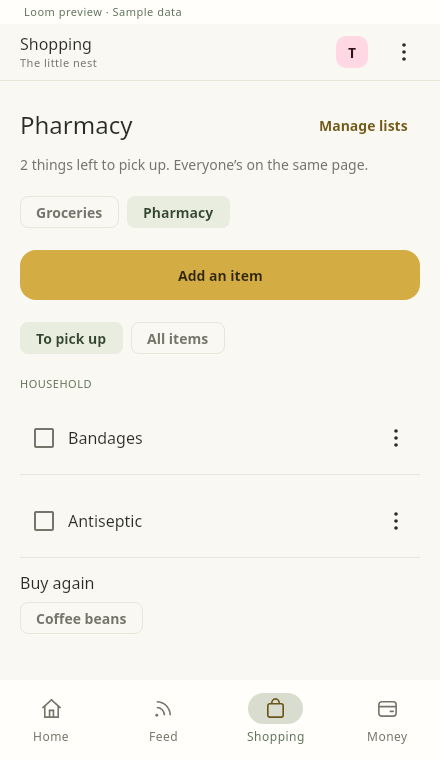
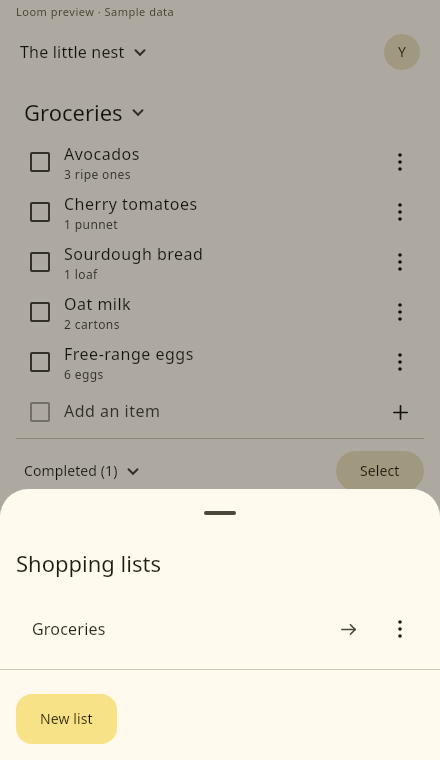
Give shopping list actions more divider spacing

diff --git a/shared/entrypoint/src/jvmTest/kotlin/com/eyther/lumbridge/app/GroupManagementUiTest.kt b/shared/entrypoint/src/jvmTest/kotlin/com/eyther/lumbridge/app/GroupManagementUiTest.kt
@@ -1,9 +1,11 @@
 package com.eyther.lumbridge.app
 
 import androidx.compose.ui.geometry.Size
+import androidx.compose.ui.graphics.asSkiaBitmap
 import androidx.compose.ui.test.ComposeUiTest
 import androidx.compose.ui.test.ExperimentalTestApi
 import androidx.compose.ui.test.assertIsDisplayed
+import androidx.compose.ui.test.captureToImage
 import androidx.compose.ui.test.hasAnyAncestor
 import androidx.compose.ui.test.hasTestTag
 import androidx.compose.ui.test.hasText
@@ -17,7 +19,10 @@ import androidx.compose.ui.test.performTextInput
 import androidx.compose.ui.test.runSkikoComposeUiTest
 import com.eyther.lumbridge.app.demo.LoomDemoApp
 import com.eyther.lumbridge.app.testutil.awaitLoadedDestination
+import java.io.File
 import kotlin.test.Test
+import org.jetbrains.skia.EncodedImageFormat
+import org.jetbrains.skia.Image
 
 @OptIn(ExperimentalTestApi::class)
 class GroupManagementUiTest {
@@ -28,6 +33,17 @@ class GroupManagementUiTest {
             onNodeWithTag("navigation_shopping").performClick()
             awaitLoadedDestination(tag = "shopping_content")
             onNodeWithTag("manage_lists").performClick()
+            onNodeWithText("New list").assertIsDisplayed()
+            onNodeWithText("Cancel").assertDoesNotExist()
+            onNodeWithText("Done").assertDoesNotExist()
+            waitForIdle()
+            val screenshot = Image.makeFromBitmap(captureToImage().asSkiaBitmap())
+            File(
+                    System.getProperty("loom.screenshots.dir", "build/screenshots"),
+                    "shopping-lists-light.png",
+                )
+                .apply { parentFile.mkdirs() }
+                .writeBytes(checkNotNull(screenshot.encodeToData(EncodedImageFormat.PNG)).bytes)
             onNodeWithTag("list_actions_Groceries").performClick()
             onNodeWithText("Delete list").performClick()
             onNodeWithTag("confirm_delete_list").performClick()

diff --git a/shared/features/shopping/src/commonMain/kotlin/com/eyther/lumbridge/features/shopping/presentation/components/bottomsheet/ShoppingListsBottomSheet.kt b/shared/features/shopping/src/commonMain/kotlin/com/eyther/lumbridge/features/shopping/presentation/components/bottomsheet/ShoppingListsBottomSheet.kt
@@ -2,7 +2,7 @@ package com.eyther.lumbridge.features.shopping.presentation.components.bottomshe
 
 import androidx.compose.foundation.layout.Row
 import androidx.compose.foundation.layout.fillMaxWidth
-import androidx.compose.foundation.layout.size
+import androidx.compose.foundation.layout.padding
 import androidx.compose.runtime.Composable
 import androidx.compose.ui.Alignment
 import androidx.compose.ui.Modifier
@@ -14,6 +14,7 @@ import com.eyther.lumbridge.core.presentation.components.bottomsheet.FormBottomS
 import com.eyther.lumbridge.core.presentation.components.menu.ActionMenu
 import com.eyther.lumbridge.core.presentation.components.menu.model.ActionMenuItem
 import com.eyther.lumbridge.core.presentation.resources.TextResource
+import com.eyther.lumbridge.core.presentation.theme.LoomSpacing
 import com.eyther.lumbridge.features.shopping.domain.model.ShoppingListDomain
 import com.eyther.lumbridge.features.shopping.generated.resources.Res
 import com.eyther.lumbridge.features.shopping.generated.resources.list_delete
@@ -45,6 +46,7 @@ fun ShoppingListsBottomSheet(
                 text = stringResource(Res.string.ui_new_list),
                 onClick = { onListForm(null) },
                 enabled = !busy,
+                modifier = Modifier.padding(top = LoomSpacing.small),
             )
         },
     ) {

diff --git a/docs/audits/2026-11-17-household-polish.md b/docs/audits/2026-11-17-household-polish.md
@@ -22,7 +22,7 @@ Back assertions and preserve failure evidence rather than suppressing the dialog
 | Statement navigation | Monthly navigation is removed. Saved legacy routes and push links redirect to current balances. The existing insights compatibility code and historical database records are retained deliberately; no financial history is rewritten. |
 | Account picker | Immediate selection closes the picker, current selection is marked, and Cancel is removed. New account and Manage accounts remain meaningful actions. |
 | Tasks | `features/tasks` replaces the reminders module, including domain/data/presentation, DI and named Gradle references. Five peer tabs are Home, Shopping, Money, Tasks and More. Title-only capture stays on Home; date, repeat and household notification are optional. Existing reminders retain alerts; completion/reopen and creation show feedback. Picker drafts remain transient, confirmed inputs remain VM-owned. |
-| Shopping controls | Completed items use a compact disclosure header; selection actions appear only while selecting. The divider has breathing room. Immediate list selection has no Cancel/Done; draft create/rename forms keep Cancel. |
+| Shopping controls | Completed items use a compact disclosure header; selection actions appear only while selecting. The completed divider and Shopping manager action footer have breathing room. Immediate list selection has no Cancel/Done; draft create/rename forms keep Cancel. |
 | Home | The news viewport reaches both screen edges; headers/items retain content gutters. Empty reminders/shopping use illustrated cards without duplicate add actions. Errors do not become empty success states. |
 | Feed management | Subscriptions are independent of articles. Reading and management have separate Screen/contract/ViewModel/routes. Pending, failed and empty sources remain visible. Add/edit/refresh/remove support progress, typed errors and feedback. Returning to reading reloads quietly. |
 | Feed refresh/edit | Manual News refresh fetches publishers with at most three concurrent requests; recent-source throttles do not block other sources. A transactional address replacement prevents stale editors and an old worker from attaching the previous publisher's articles. |
@@ -51,7 +51,8 @@ Back assertions and preserve failure evidence rather than suppressing the dialog
 ## Verification
 
 - Full local run: **178 JVM tests, zero failures/skips**, including shared Compose UI flows. Subsequent
-  focused captures exercise the same source-management and news-navigation assertions.
+  focused captures exercise the same source-management and news-navigation assertions. A final small
+  Shopping footer-spacing change passes the two existing group-management flows and refreshes its capture.
 - Android debug app and instrumentation APK assemble successfully. Native device tests cover keyboard
   entry/alignment, refresh draft retention, lifecycle/Back and the added nested feed-management Back path.
   Building the test APK does not claim those device tests ran locally.

diff --git a/docs/plans/2026-11-17-polish-ledger.md b/docs/plans/2026-11-17-polish-ledger.md
@@ -202,3 +202,5 @@ Checked 17 Nov: [Google Tasks Android capture](https://support.google.com/tasks/
 - Final local suite: **178 JVM tests**, Android debug and instrumentation APK builds, **17 disposable PostgreSQL migrations**, 6 Deno RSS/security tests and tooling/architecture checks pass. New HTTP tests verify that new tasks explicitly opt out of alerts and use the correct canonical endpoints.
 - Applied **20261117130457_household_tasks** to Loom. Hosted schema/permission metadata verifies RLS/four member policies, authenticated CRUD, no anonymous table/completion access, realtime publication and the invoker-security legacy view. Existing reminders retain their alert intent; old completion and push workers stay compatible. No hosted household records were queried. Security advisors are unchanged.
 - Captured native Back failures show a foreign Quickstep launcher ANR. The runner now prebuilds APKs before boot, provides 3 GB/two cores, and starts a clean launcher at a software-rendering-friendly phone resolution. Animations, real keyboard/Back and all assertions remain enabled; failure captures remain available. Exact-head native/iOS CI gates and Firebase upload still determine delivery.
+
+Final spacing review also applies the extra divider clearance to the Shopping list-manager footer (not only the completed-items header). The existing group-management flow passes and captures the selector with New list only; Cancel and Done are absent.
